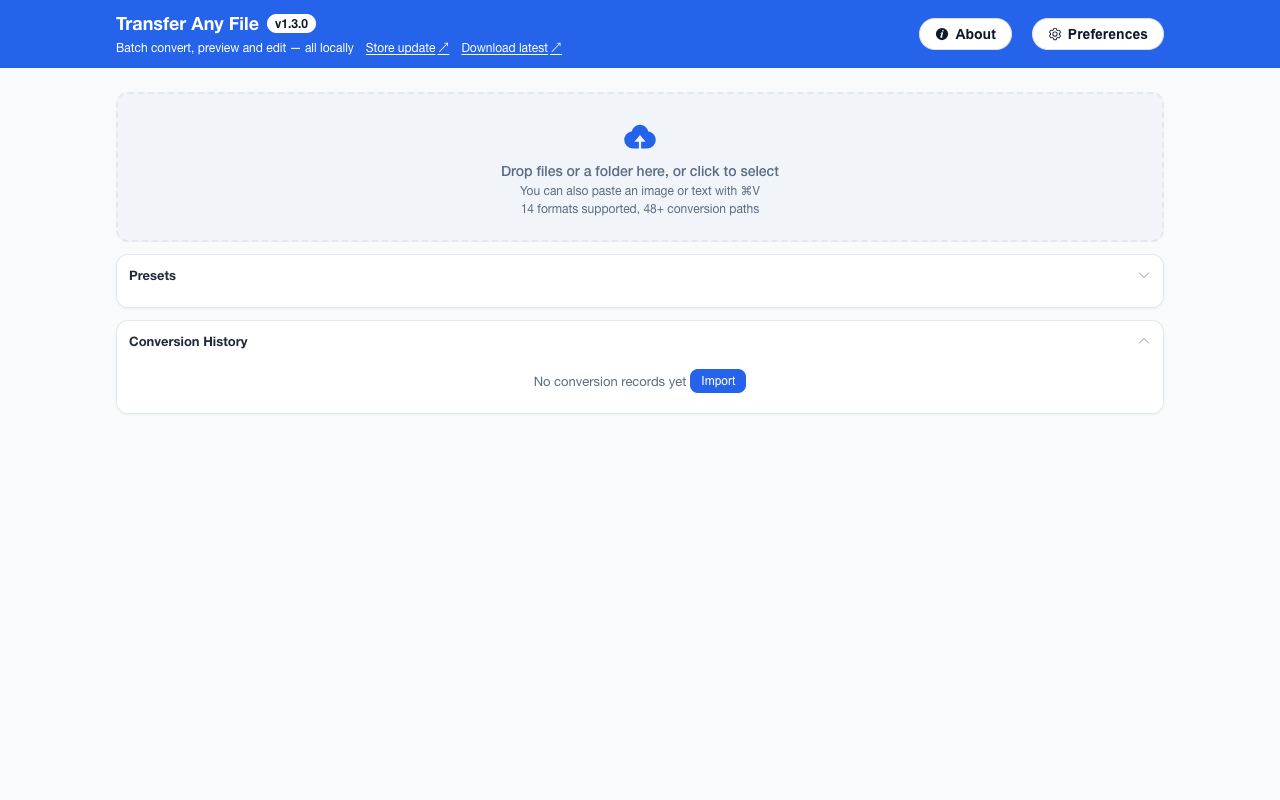
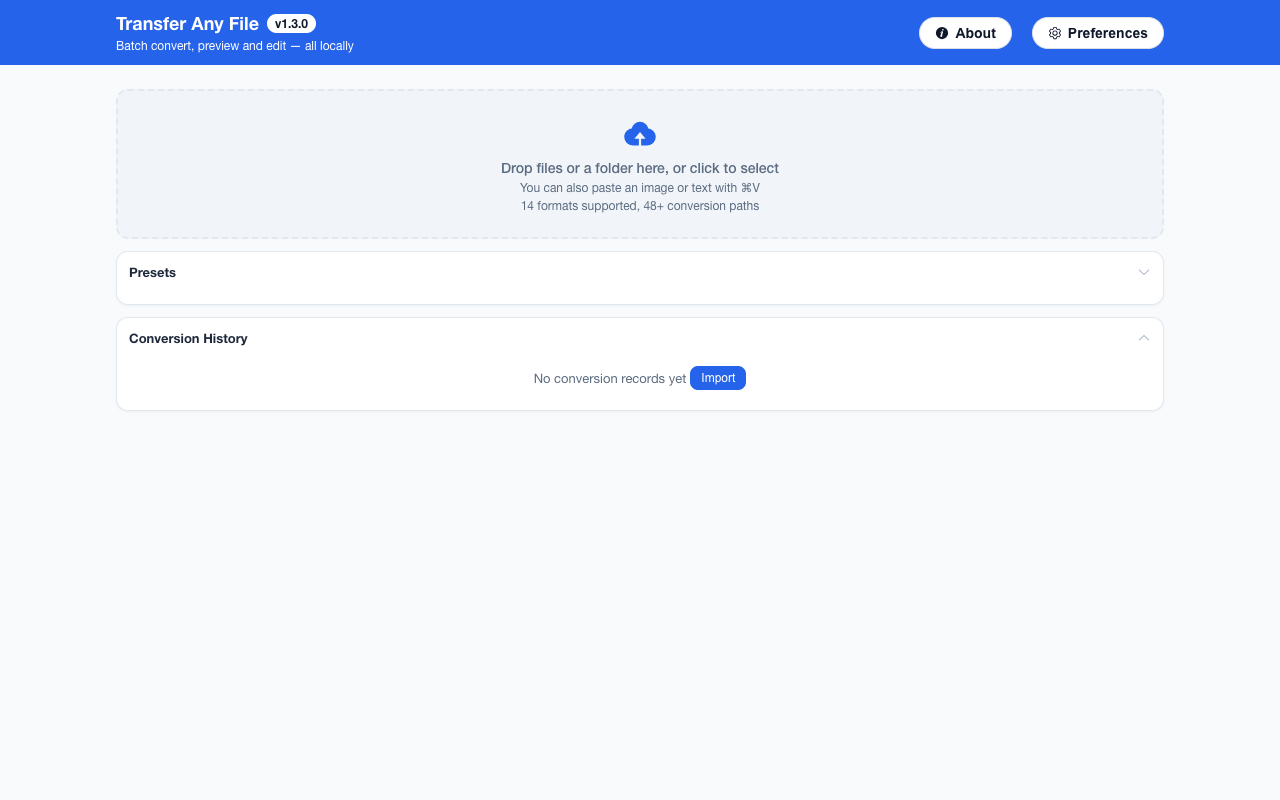
refactor(ui): 顶栏撤掉商店与最新版两条外链，出口只留「关于」抽屉
顶栏那两条快捷链接（商店更新、下载最新版）与上一轮新增的「关于」抽屉指向同一批目的地：抽屉里的「Chrome 应用商店」「评价与反馈」共用 CHROME_WEB_STORE_URL，「最新版本与下载」就是 releases/latest。一个页头留两扇门通向同一处，用户面对的是「该点哪个」而不是「去哪儿」；而「商店更新」本身还是句误导文案——扩展从不检查更新，商店安装的版本由 Chrome 自己更新，界面上没有任何动作对应它。所以撤掉这两条，顶栏只留品牌名、版本号胶囊、副标题，以及「关于」「偏好」两枚胶囊；十条对外地址仍全部由抽屉承接，e2e 的 About 小节照旧逐字钉住商店条目 ID 与 releases/latest，没有地址失去覆盖。

改动：App.vue 删掉 .brand-meta 区块、utils/urls 的 import 与四条相关样式；i18n 删掉 options.storeLink / releasesLink 两个键（中英同步），versionHint 与 newTabSuffix 保留——版本号胶囊的标题仍要说清「当前已安装版本」。e2e 那节从 9 条断言重写为 4 条：版本号取自产物 manifest、胶囊 tooltip、顶栏不含离开本页的 href（正面的空集断言，按语义选 header 而不是类名，并先断言 header 存在，避免选择器失配时空列表读成通过）、320px 下 scrollWidth ≤ clientWidth 且胶囊有宽度、右侧动作区右沿 ≤ clientWidth。

顺带一个可解释的产物变化：utils/urls.ts 原先被入口静态引用，与懒加载的 AboutDrawer 共享，rolldown 只能给它单独切一个 chunks/urls-*.js；入口这条边撤掉后它只剩抽屉一个消费者，被内联进 AboutDrawer 的 chunk。整包 75 → 74 个文件、3,886,557 → 3,885,158 B，商店地址不再随首屏 chunk 下发，remote-code 的产物扫描面 51 → 50。用 git archive 9282ad3 在 /tmp 另建一棵树复跑构建核过：旧树确有 urls chunk，新树只在 AboutDrawer chunk 里出现 chromewebstore.google.com。

同步：README 中英（功能列表、隐私段、FAQ 升级路径改指抽屉条目名）、CHANGELOG 中英未发布区、产品页与博客页（断言 491 → 486，日期 2026-10-25）、四份推广稿的断言数、visibility-checklist 基线与本轮记录；UI 变了所以 assets:capture 重拍了 24 张截图与两条演示 GIF。
[…]

diff --git a/docs/index.html b/docs/index.html
@@ -7765,7 +7765,7 @@ pnpm build</code><button
               <span lang="zh-CN"
                 >扩展只申请一项权限：<code>storage</code>，用于历史记录与偏好设置。它不声明任何
                 <code>host_permissions</code
-                >，自身代码中也不发起任何网络调用，因此不存在能把文件发出去的代码路径。界面上的对外地址集中在顶栏的「关于」抽屉里——使用说明、商店、源码、反馈、隐私政策等十条——顶栏另有两颗快捷链接；每一条都是普通链接，点了才由浏览器打开，扩展既不检查更新也不预取任何东西。完整政策：<a
+                >，自身代码中也不发起任何网络调用，因此不存在能把文件发出去的代码路径。界面上的对外地址集中在顶栏的「关于」抽屉里——使用说明、商店、源码、反馈、隐私政策等十条；每一条都是普通链接，点了才由浏览器打开，扩展既不检查更新也不预取任何东西。完整政策：<a
                   href="privacy.html"
                   >隐私政策</a
                 >（中英双语）。</span
@@ -7774,10 +7774,9 @@ pnpm build</code><button
                 >The extension requests exactly one permission, <code>storage</code>, for history and preferences. It
                 declares no <code>host_permissions</code> and issues no network call of its own, so there is no path by
                 which a file could be transmitted. Every off-site address lives in the About drawer in the top bar —
-                usage guide, store listing, source, feedback, privacy policy and so on, ten in all — alongside two
-                shortcuts in the header: each is a plain link the browser opens when you click it, and the extension
-                neither checks for updates nor prefetches anything. Full text:
-                <a href="privacy.html">privacy policy</a> (bilingual).</span
+                usage guide, store listing, source, feedback, privacy policy and so on, ten in all: each is a plain link
+                the browser opens when you click it, and the extension neither checks for updates nor prefetches
+                anything. Full text: <a href="privacy.html">privacy policy</a> (bilingual).</span
               >
             </p>
           </div>
@@ -8860,7 +8859,7 @@ pnpm build</code><button
               <p>
                 <span lang="zh-CN"
                   >一套 Playwright 端到端套件加载真正的构建产物，用仓库内的夹具跑完各类转换场景、批量与
-                  ZIP、取消与改键、预览与编辑、图片输出参数与转换预设、PDF 选页、输出文件名模板、历史与偏好，共 491
+                  ZIP、取消与改键、预览与编辑、图片输出参数与转换预设、PDF 选页、输出文件名模板、历史与偏好，共 486
                   项断言全部通过（1.3.0 构建，2026-10-25 实测）；另在 6 主题 × 浅/深共 12
                   种组合下逐项校验五组对比度：顶栏文字、主按钮文字（常态 / 悬停 / 按下）、焦点环、正文信息文字，以及
                   Element Plus 浅色效果的警示框与格式标签。CI 每次推送跑 lint + build + e2e。</span
@@ -8869,7 +8868,7 @@ pnpm build</code><button
                   >A Playwright end-to-end suite drives the actual build output over the repository fixtures — every
                   conversion scenario, batching and ZIP handling, cancellation and shortcut rebinding, preview and
                   editing, image output parameters and conversion presets, PDF page selection, output file-name
-                  patterns, history and preferences — with 491/491 assertions passing (the 1.3.0 build, measured
+                  patterns, history and preferences — with 486/486 assertions passing (the 1.3.0 build, measured
                   2026-10-25). It also checks five contrast pairs — topbar text, the primary button's label in its rest,
                   hover and pressed states, the focus ring, informational text such as the drop hint and file sizes, and
                   the ink Element Plus paints on its light-effect alerts and per-file format tags — in all 12 theme ×

diff --git a/entrypoints/options/App.vue b/entrypoints/options/App.vue
@@ -18,7 +18,6 @@ import { converterRegistry } from '~/utils/core/registry';
 import { isImageOutputFormat } from '~/utils/core/output-options';
 import { MAX_MERGED_PAGES } from '~/utils/core/image-pdf';
 import { getFormatLabel } from '~/utils/core/format-labels';
-import { CHROME_WEB_STORE_URL, GITHUB_RELEASES_PAGE_URL } from '~/utils/urls';
 import { FileFormat } from '~/utils/core/types';
 import type { ConversionPreset, ConvertResult, ImageOutputOptions } from '~/utils/core/types';
 import type { HistoryRecord } from '~/composables/useHistory';
@@ -513,28 +512,10 @@ onUnmounted(() => {
                 >v{{ appVersion }}</span
               >
             </div>
-            <div class="brand-meta">
-              <span class="brand-tag">{{ t('options.subtitle') }}</span>
-              <!-- Clicking is the only way these reach the network, and the browser opens them — not
-                   this page. The arrow is generated by CSS so it stays out of the accessible name,
-                   which `aria-label` supplies in full (visible text first, WCAG 2.5.3). -->
-              <a
-                class="brand-link"
-                :href="CHROME_WEB_STORE_URL"
-                target="_blank"
-                rel="noopener"
-                :aria-label="`${t('options.storeLink')}${t('options.newTabSuffix')}`"
-                >{{ t('options.storeLink') }}</a
-              >
-              <a
-                class="brand-link"
-                :href="GITHUB_RELEASES_PAGE_URL"
-                target="_blank"
-                rel="noopener"
-                :aria-label="`${t('options.releasesLink')}${t('options.newTabSuffix')}`"
-                >{{ t('options.releasesLink') }}</a
-              >
-            </div>
+            <!-- The top bar carries no off-site anchor: every outbound address, including the store
+                 and the latest release, lives in the About drawer. Clicking one there is the only way
+                 the interface reaches the network, and the browser opens it — not this page. -->
+            <span class="brand-tag">{{ t('options.subtitle') }}</span>
           </div>
           <!-- Two capsules on the right: the drawer of exits, then preferences. Both share the
                card-coloured chrome and collapse to icon-only below 640px, where the topbar has no
@@ -936,47 +917,6 @@ onUnmounted(() => {
   font-size: 12px;
   font-weight: 600;
   font-variant-numeric: tabular-nums;
-}
-
-/* The subtitle and the two outbound links share the second line: the links qualify where an upgrade
-   comes from, so they belong beside the sentence that says what this page is, not on the far edge
-   next to the gear. The column gap is one step wider than the row gap because the line mixes a
-   description with actions — at 8px the first link read as the tail of the sentence. */
-.brand-meta {
-  display: flex;
-  flex-wrap: wrap;
-  align-items: baseline;
-  gap: var(--fat-space-xs) var(--fat-space-md);
-}
-
-/* `--fat-on-primary` is the ink every other topbar string already uses — measured at ≥4.5:1 against
-   all six headers in both modes — and the underline carries the link affordance, because colour alone
-   would fail WCAG 1.4.1 on a header that is itself a single hue. */
-.brand-link {
-  color: var(--fat-on-primary);
-  font-size: 12px;
-  text-decoration: underline;
-  text-underline-offset: 2px;
-}
-
-/* Generated, not markup: `aria-label` already spells out the destination and the new tab, so the
-   arrow stays a shape rather than something a screen reader reads twice. */
-.brand-link::after {
-  content: '↗';
-  margin-left: 2px;
-}
-
-.brand-link:hover {
-  text-decoration-thickness: 2px;
-}
-
-/* The global ring paints the header's own accent on the header's own colour. The card-coloured band
-   underneath is the contract `.skip-link` and `.prefs-trigger` already keep in this header: the ring
-   always has an opaque boundary whichever surface is behind it. */
-.brand-link:focus-visible {
-  outline: 2px solid var(--fat-focus-ring);
-  outline-offset: 2px;
-  box-shadow: 0 0 0 2px var(--fat-bg-card);
 }
 
 /* The topbar's right-hand controls. They travel as one flex item so the header keeps a two-sided

diff --git a/docs/blog/index.html b/docs/blog/index.html
@@ -940,13 +940,13 @@ pnpm install &amp;&amp; pnpm build</code></pre>
             <p>
               <span lang="zh-CN"
                 >技术栈：<b>WXT + Vue 3 + TypeScript + Element Plus</b>，Manifest V3，权限只有 <code>storage</code>，MIT
-                协议。验证方式也是交付的一部分：Playwright 驱动构建产物跑 491
+                协议。验证方式也是交付的一部分：Playwright 驱动构建产物跑 486
                 条断言，转换用的夹具（<code>fixtures/</code>）随仓库走，谁都能本地重跑。</span
               >
               <span lang="en"
                 >Tech stack: <b>WXT + Vue 3 + TypeScript + Element Plus</b>, Manifest V3, <code>storage</code> as the
                 only permission, MIT licence. How it is verified is part of the deliverable too: Playwright drives the
-                built artifact through 491 assertions, and the fixtures it converts live in <code>fixtures/</code> next
+                built artifact through 486 assertions, and the fixtures it converts live in <code>fixtures/</code> next
                 to the code, so anyone can re-run them.</span
               >
             </p>

diff --git a/utils/i18n/zh.ts b/utils/i18n/zh.ts
@@ -17,8 +17,6 @@ export default {
     subtitle: '批量转换、预览与编辑，全部在本地完成',
     preferences: '偏好设置',
     versionHint: '当前已安装版本 {version}',
-    storeLink: '商店更新',
-    releasesLink: '下载最新版',
     /** Appended to the visible link text rather than replacing it, so the accessible name keeps that
      *  text as a substring (WCAG 2.5.3) while still naming the new tab. */
     newTabSuffix: '，在新标签页打开',

diff --git a/utils/i18n/en.ts b/utils/i18n/en.ts
@@ -15,8 +15,6 @@ const en: typeof zh = {
     subtitle: 'Batch convert, preview and edit — all locally',
     preferences: 'Preferences',
     versionHint: 'Installed version {version}',
-    storeLink: 'Store update',
-    releasesLink: 'Download latest',
     newTabSuffix: ', opens in a new tab',
   },
 

diff --git a/README.en.md b/README.en.md
@@ -211,13 +211,13 @@ Summarised from the typical behaviour of each class of tool rather than one spec
 - **Keyboard and screen reader accessible** — skip link to the main content, visible focus rings, and full `prefers-reduced-motion` support: that setting collapses displacement and scale alongside every duration, so nothing on screen is left moving for a single frame — Element Plus dialogs and dropdowns included, whose entrance offsets are rewritten rather than merely sped up; conversion progress, result counts and the file list's load/clear all land in a `role="status"` region, and the comparison view's divider exposes `role="separator"` with its current ratio
 - **Measured contrast** — the end-to-end suite asserts five WCAG contrast pairs (topbar text, focus ring, the primary button label in its rest / hover / pressed states, informational text, and the ink Element Plus paints its light-effect alerts and per-file format tags with) across all 6 themes × light/dark, 12 combinations, and separately asserts that the first Tab lands on the skip link with a visible ring; thresholds, measured readings and the known limitation live in [CONTRIBUTING.en.md](CONTRIBUTING.en.md#accessibility-and-contrast-assertions) · [简体中文](CONTRIBUTING.md#无障碍与对比度断言)
 - **Personalization** — 6 theme colors × light / dark / system, Chinese/English interface
-- **Version, About and update entry points** — the chip beside the app name in the top bar shows the version actually loaded (the same number `chrome://extensions` reports), and to its right two buttons open the About drawer and Preferences. The drawer gathers every off-site address in one place — usage guide, format conversion guides, the store listing, the store rating, the GitHub repository, feedback, the privacy policy, the license, the latest release and the author profile, ten in all — each labelled with its destination host; Preferences holds appearance, notifications, the name template and shortcuts. The top bar keeps its two shortcuts, "Store update" and "Download latest". The extension never phones home to check for updates — there is no server to ask — so the interface makes no claim like "a new version is available"; it only offers these doors you can open yourself
+- **Version, About and update entry points** — the chip beside the app name in the top bar shows the version actually loaded (the same number `chrome://extensions` reports), and to its right two buttons open the About drawer and Preferences. The drawer gathers every off-site address in one place — usage guide, format conversion guides, the store listing, the store rating, the GitHub repository, feedback, the privacy policy, the license, the latest release and the author profile, ten in all — each labelled with its destination host; Preferences holds appearance, notifications, the name template and shortcuts. Both upgrade paths, the store listing and the latest release, are in that drawer too, and the header itself carries no off-site link. The extension never phones home to check for updates — there is no server to ask — so the interface makes no claim like "a new version is available"; it only offers these doors you can open yourself
 
 ## 🔒 Privacy
 
 - All conversions run **100% locally** in the extension page — the load-bearing fact is that no first-party source file issues a request (`fetch`, `XMLHttpRequest`, `WebSocket`, `EventSource` and `sendBeacon` appear nowhere in `entrypoints/`, `components/`, `composables/` or `utils/`, asserted by `pnpm verify:offline`). On top of that, the manifest declares no host permissions and registers no content scripts, so the request paths sitting unused inside third-party converter libraries can neither read a response nor reach any site's data
 - The only permission requested is `storage`, used for history (file names, formats, sizes — never contents) and preferences
-- Every off-site address in the interface is an ordinary link: the About drawer lists ten of them (usage guide, conversion guides, store and rating, repository, feedback, privacy policy, license, latest release, author), and the top bar keeps two shortcuts (store update and download latest). The browser opens them after you click, the extension issues no request of its own and never asks whether a newer version exists
+- Every off-site address in the interface is an ordinary link, gathered in the About drawer (usage guide, conversion guides, store and rating, repository, feedback, privacy policy, license, latest release, author — ten in all). The browser opens them after you click, the extension issues no request of its own and never asks whether a newer version exists
 - No analytics, no tracking, no account, no ads, no paid tier
 - Want to test the claim before installing: [File diff](https://liaolongdong.github.io/transfer-any-file/diff/) is the second page on this site that asks for a file of yours, after the product page's one-image demo — two files are read into the page's own memory and compared line by line and word by word. The code shipped with it issues no request at all, and no extension is needed (its source is `tools/file-diff.html` in this repository, and what is served is a byte-for-byte copy of it)
 - Full text: [privacy policy (online, bilingual)](https://liaolongdong.github.io/transfer-any-file/privacy.html) (repository source `docs/privacy.html`) · store-facing answers: [`CHROMEWEBSTORE.md`](.github/CHROMEWEBSTORE.md)
@@ -275,7 +275,7 @@ That is the PDF viewer talking, not this extension. The PDF we write is a page i
 Yes. Once installed the UI and every converter run locally, and the text is set in system fonts rather than a downloaded webfont, so nothing has to be fetched; airplane mode changes nothing.
 
 **Which version am I running, and how do I upgrade?**
-The chip beside the app name in the top bar is the version actually loaded — the same number `chrome://extensions` shows. Two links sit next to it, one per upgrade path: installed from the store, Chrome updates it on its own and "Store update" takes you to the listing; loaded unpacked from a zip, "Download latest" opens the GitHub releases page so you can replace the folder. Everything else lives in the About drawer in the top bar: the full usage guide, format conversion guides, the store listing and rating, the GitHub source, the feedback entry point, the privacy policy, the full license, the latest release and the author's profile. The extension never checks for an update itself — it has no host permission and no server to ask — so that number answers "which version is running", not "is there a newer one".
+The chip beside the app name in the top bar is the version actually loaded — the same number `chrome://extensions` shows. Both upgrade paths live in the About drawer in that bar: installed from the store, Chrome updates it on its own and "Chrome Web Store" takes you to the listing; loaded unpacked from a zip, "Latest release & downloads" opens the GitHub releases page so you can replace the folder. The same drawer lists every other off-site entry: the full usage guide, format conversion guides, the store rating, the GitHub source, the feedback entry point, the privacy policy, the full license and the author's profile. The extension never checks for an update itself — it has no host permission and no server to ask — so that number answers "which version is running", not "is there a newer one".
 
 **How is this different from an online converter?**
 Same job, opposite direction: online tools ship your file to a machine you don't control and delete it "within 24 hours"; this one never has a copy to delete. The trade-off is breadth — online tools cover hundreds of formats including video and audio, this one covers 14 document, data and image formats that browsers can decode.

diff --git a/.github/visibility-checklist.md b/.github/visibility-checklist.md
@@ -52,7 +52,7 @@
 以后再补跑的成本（本机需要手动装过 ffmpeg 与 chromium 二进制）：
 
 ```bash
-pnpm test:e2e        # = wxt build + node scripts/e2e-test.mjs，断言基线 491 条
+pnpm test:e2e        # = wxt build + node scripts/e2e-test.mjs，断言基线 486 条
 ```
 
 **2026-09-29 这一轮（JSON 预览的树 / 数组表 / 搜索 + 仓库外的对比页）跑满了 e2e，改在 `E2E_HEADLESS=true` 下跑**：
@@ -1732,6 +1732,46 @@ csv→Word 的另一组事实回读自`html-to-docx.ts`：正文以 MHT altChunk
   **一条工具口径**：本机 Playwright 的 ffmpeg 二进制会随缓存清理消失，而 `npx playwright install ffmpeg` 在
   macOS 13 上直接报 `Playwright does not support ffmpeg on mac13`——把官方构建包手动解到
   `~/Library/Caches/ms-playwright/ffmpeg-1011/ffmpeg-mac` 并 `chmod +x` 即可，软链系统 ffmpeg 不行。
+
+- **10-25 第七十五轮（撤掉顶栏两条外链，对外地址只剩「关于」抽屉；断言总数 491→486，一轮全量绿灯）。**
+  用户看顶栏截图问「这两条是不是可以删了」；结论是可以——「商店更新」与「下载最新版」两个目的地在抽屉里
+  各有一条（`linkStore` / `linkReview` 共用商店地址，`linkReleases` 指向 `releases/latest`），顶栏再留一遍
+  就是同一目的地开两扇门；而「商店更新」这个名字会被读成「点一下会拉新版本」，可扩展从不检查更新，
+  从商店装的由 Chrome 自己更新。删除后顶栏只剩品牌名 + 版本芯片、「关于」「偏好设置」两颗胶囊。
+  **改动**：`App.vue` 删掉两个 `<a class="brand-link">` 与 `.brand-meta` / `.brand-link*` 样式，`brand-tag`
+  直接挂在 `.brand` 列里；`options.storeLink` / `options.releasesLink` 两个 key 从中英字典移除
+  （`versionHint` 与 `newTabSuffix` 仍在使用）；`utils/urls.ts` 一个字节没动。
+  **守卫收窄但不放空**：e2e 原来的「Topbar Version & Update Links」一节 9 条断言（两条链接的 href / target /
+  rel / aria-label / 墨色 / 320px 不越界）随链接一起退场，改成「Topbar Version Chip & Outbound Scope」4 条：
+  版本芯片对被测产物、芯片 tooltip、`<header>` 里没有任何离开本页的锚点、320px 下文档不撑宽且右侧胶囊的右缘
+  仍在视口内。那条「no off-site anchor」是新增的**正面**断言——它把「对外地址只在抽屉里」这句对外承诺变成
+  可执行的门，以后谁再把外链塞回顶栏（不管用什么 class）都会红；判据是 href 不以 `#` 开头，不是某个类名，
+  同时要求那个 `<header>` 真的存在（否则空列表会被读成通过）。
+  **评审修掉的两处**：① 320px 那条最初量的是版本芯片的右缘，可芯片是品牌侧**最窄**的元素——真正的风险在
+  不收缩的右侧两颗胶囊，而且芯片若被某条规则隐藏，`rect.right` 会静默变成 0 而照样通过。改成同时要求
+  `documentElement.scrollWidth <= clientWidth`、芯片宽度 `> 0`、`.topbar-actions` 的右缘在视口内。
+  ② 段首注释原写「skip link 是 header 里剩下的唯一锚点」——skip link 在 `<header>` **外面**；改成「页内锚点
+  允许，离开本页的锚点不许」。CHANGELOG 那句「两个目的地各一条入口」也不准：抽屉里商店条目与评价共用同一个
+  地址（两条入口、一个 URL），措辞改成「改由抽屉承接（商店条目与评价共用同一个地址）」。
+  **一个顺带的好处**：`utils/urls.ts` 原先既被入口静态引入、也被抽屉动态引入，被迫单独成 chunk；入口那条边
+  一断，它被内联进抽屉 chunk。用 `git archive 9282ad3` 在 `/tmp` 重建上一版核实：旧产物 **75 个文件**、
+  有 `chunks/urls-C16hK4fE.js` 且商店地址就在那个 chunk 里；新产物 **74 个文件**（3,886,557 → 3,885,158 B，
+  −1,399 B），`grep -rl 'chromewebstore.google.com' .output/chrome-mv3 --include='*.js'` 只命中
+  `chunks/AboutDrawer-*.js`——商店地址不再随入口 chunk 发出，`verify:remote-code` 的产物扫描也随之从 51 个文件
+  变成 50。zip 1,187,014 → 1,186,481 B。同一棵树重跑 build 两次，文件数与字节数相同。
+  **文档同步**：README 中英各三处（功能段 / 隐私段 / FAQ 的升级路径）、`docs/index.html` 隐私段中英各一句、
+  CHANGELOG 中英未发布条目；断言总数 491→486 除 `scripts/__baseline__/e2e-assertions.json`（测试自写）外，
+  还要跟改 `docs/index.html`、`docs/blog/index.html` 与四份推广稿（`verify:numbers` 盯的就是这一组）。
+  历史记录不改：本轮上方 round 74 的 480→491 与 CHANGELOG 1.3.0 的「两条更新入口」都是当时的账。
+  商店文案与 manifest 描述没动——撤两条链接不是商品卖点，改它只会牵动 `verify:listing` 的七个粘贴字段。
+  验证：`Results: 486/486 passed (100%)`、`EXIT:0`（`/tmp/taf-e2e-round75.log`），基线自写到 `486`；
+  build `Σ Total size: 3.89 MB`（74 个文件 / 3,885,158 B）、zip `1.19 MB`（1,186,481 B）；
+  `verify:offline:source` / `verify:offline` 98 个第一方文件 + manifest 只有 `storage`、无 host 权限；
+  `verify:remote-code` 源码 98 / 产物 50；`verify:paths` 48 边 / 182 对；`pages:check` 133 文件；
+  `verify:numbers` 23 事实 × 138 文档；`verify:listing` 7 个粘贴字段；`verify:release-ci` 71 条判定与四组接缝；
+  `verify:meta` 短描述 127/132；`lint:all` 全绿（十二道按顺序跑在收口后的同一棵树上）。
+  `assets:capture` 重拍 7 张英文原图 + 7 张中文原图、14 张带文案商店截图与 3 张推广图；
+  两条演示 GIF 重录（zh 1925 KB / en 1439 KB）。
 
 ## 3. 收下改动：这一节记的是提交账，不是提交计划
 

diff --git a/docs/promo/community-posts.md b/docs/promo/community-posts.md
@@ -17,7 +17,7 @@
 - 权限：只有 `storage` 一项 | 出处 `wxt.config.ts`
 - 体积与阈值：单文件最大 100 MB、单批最多 200 个文件，超过 20 MB 或超过 5 个文件先弹确认 | 出处 `components/shared/FileUpload.vue`、`composables/useConversion.ts`
 - 整包体积：3.89 MB | 出处 `pnpm build` 输出，按字节和 ÷ 1e6
-- 端到端断言：跑 491 条断言 | 出处 `scripts/__baseline__/e2e-assertions.json`（一轮完整绿灯运行记录）
+- 端到端断言：跑 486 条断言 | 出处 `scripts/__baseline__/e2e-assertions.json`（一轮完整绿灯运行记录）
 - 主题：6 种主题色，浅色 / 深色两组共 12 组配置逐组断言对比度 | 出处 `composables/useTheme.ts`
 - 许可 / 作者：MIT，单一作者 Better（[@liaolongdong](https://github.com/liaolongdong)） | 出处 `LICENSE`、`package.json`
 - 商店状态：**已上线**，一次点击安装 | 出处 `.github/CHROMEWEBSTORE.md` 顶部「现网状态」（2026-10-02 浏览器实测条目在架，详情区版本 1.0.0）
@@ -82,7 +82,7 @@
 - 中文编码：文本先按 BOM / NUL 奇偶判断 UTF-16，再按 UTF-8 → GB18030 → GBK 严格解码；四种都不覆盖、或解出一串控制字符，就报错而不是产出乱码。写 CSV 带 UTF-8 BOM，Excel 双击打开不乱码。
 - 值保真比格式更重要：XLSX → CSV 按单元格存储值序列化（不是显示文本），日期在读取期统一成 ISO 形状而不是日序列号；CSV → XLSX 只在「解析后能精确回写」时才判成数值单元格，于是 `00123` 和一串 20 位数字不会被静默改坏。以 `= + - @` 开头的字段统一转义，防止 CSV 在 Excel 里被当公式执行。
 - 首屏：重型转换库全部动态 `import()`，ZIP 引擎（fflate）也只在真正要用它的那个调用点 `await import()`。整包 3.89 MB，但打开工作台不会拉那 1.26 MB 的 `pdf.worker`。注意一个坑：`defineAsyncComponent` 不等于它的 import 也是懒的——被 `v-show` 常驻挂载的异步组件在启动那一刻就解析完了自己的 chunk。
-- 测试没有单测框架，只有 Playwright 驱动**构建产物**跑 491 条断言，包括 6 种主题色 × 明暗共 12 组配置下的逐项对比度断言。
+- 测试没有单测框架，只有 Playwright 驱动**构建产物**跑 486 条断言，包括 6 种主题色 × 明暗共 12 组配置下的逐项对比度断言。
 - 文档层跑过一遍：所有对外散文里的数字（格式数、路径数、组合数、阈值、断言总数）都由一条脚本现推再比对，历史陈述按文件排除在射程外。
 
 ## 链接

diff --git a/CHANGELOG.en.md b/CHANGELOG.en.md
@@ -15,7 +15,7 @@ Release PR is not by itself a release.
 
 - **ui**: The staged file list can be reordered — drag a row's handle, or focus it and use ↑ / ↓ / Home / End. A merged PDF writes its pages in that order, and in a windowed long list the scroll follows the move so focus stays on the row that moved; reordering locks once results exist, and the handle stays focusable while locked so its name carries the reason
 - **site**: An offline image demo on the product page: pick a PNG / JPEG / WebP / BMP / GIF, choose WebP / JPEG / PNG and a quality, re-encode it with a canvas inside the page and download the result, with a thumbnail and the size delta in the result card
-- **ui**: A new About drawer in the top bar gathers ten off-site addresses in one place — the full usage guide, format conversion guides, the store listing and rating, the GitHub repository, the feedback entry point, the privacy policy, the full license, the latest release and the author's profile — each labelled with its destination host, alongside three offline facts (network, permissions, account and telemetry) and the loaded version. Every address now lives in `utils/urls.ts`, and the top bar's existing "Store update" and "Download latest" links read from it too; the extension still issues no request
+- **ui**: A new About drawer in the top bar gathers ten off-site addresses in one place — the full usage guide, format conversion guides, the store listing and rating, the GitHub repository, the feedback entry point, the privacy policy, the full license, the latest release and the author's profile — each labelled with its destination host, alongside three offline facts (network, permissions, account and telemetry) and the loaded version. Every address now lives in `utils/urls.ts`, and the top bar's former "Store update" and "Download latest" shortcuts are gone: both destinations are served by the drawer instead (the store listing and rating share one address), and the header carries no off-site link; the extension still issues no request
 
 ### Fixed
 

diff --git a/CHANGELOG.md b/CHANGELOG.md
@@ -14,7 +14,7 @@ manifest 的版本号。一次发布 = 在 `main` 上打 `vX.Y.Z` 标签，由 `
 
 - **ui**：文件列表可拖拽排序——拖动手柄，或聚焦手柄后用 ↑ / ↓ / Home / End 调整；合并 PDF 按这个顺序排页，在按窗口渲染的长列表里滚动会跟着移动走、焦点始终留在被移动那一行。已有转换结果时锁定排序，锁定时手柄仍可聚焦，原因写进它的无障碍名称与悬停提示
 - **site**：产品页新增离线图片试用区：选一张 PNG / JPEG / WebP / BMP / GIF，挑 WebP / JPEG / PNG 与画质，在本页 canvas 里重新编码并下载，结果卡带缩略图与体积变化
-- **ui**：顶栏新增「关于」抽屉，把十条对外地址收在一处——完整使用说明、格式转换说明、商店条目与评价、GitHub 仓库、反馈入口、隐私政策、许可证全文、最新发布与作者主页——每条标出目标域名；抽屉同时列出网络访问、权限与账号/遥测三条离线事实和当前版本号。所有地址集中到 `utils/urls.ts`，顶栏原有的「商店更新」与「下载最新版」也改从那里取，扩展仍不发起请求
+- **ui**：顶栏新增「关于」抽屉，把十条对外地址收在一处——完整使用说明、格式转换说明、商店条目与评价、GitHub 仓库、反馈入口、隐私政策、许可证全文、最新发布与作者主页——每条标出目标域名；抽屉同时列出网络访问、权限与账号/遥测三条离线事实和当前版本号。所有地址集中到 `utils/urls.ts`；顶栏原有的「商店更新」与「下载最新版」两条快捷链接随之移除，这两个目的地改由抽屉承接（商店条目与评价共用同一个地址），顶栏不再有对外链接。扩展仍不发起请求
 
 ### 修复
 

diff --git a/docs/promo/blog-article.en.md b/docs/promo/blog-article.en.md
@@ -103,7 +103,7 @@ Repository: [github.com/liaolongdong/transfer-any-file](https://github.com/liaol
 
 Everything the store asks for was written down first: name and description copy, 1280×800 screenshots, a line-by-line justification for each permission, the privacy policy, and the data-disclosure answers — all in `.github/CHROMEWEBSTORE.md` and `docs/privacy.html`. Getting there took three rejections: the first two were about the shape of the copy, the third about remotely hosted strings sitting unreachable inside the bundle — fixed in the build, not in the text. To push anything for the next version, open an issue on the repo.
 
-Tech stack: **WXT + Vue 3 + TypeScript + Element Plus**, Manifest V3, `storage` as the only permission, MIT licence. How it's verified is part of the deliverable too: Playwright drives the built artifact through 491 assertions, and the fixtures it converts live in `fixtures/` next to the code.
+Tech stack: **WXT + Vue 3 + TypeScript + Element Plus**, Manifest V3, `storage` as the only permission, MIT licence. How it's verified is part of the deliverable too: Playwright drives the built artifact through 486 assertions, and the fixtures it converts live in `fixtures/` next to the code.
 
 ## 6. Who shouldn't use it
 
